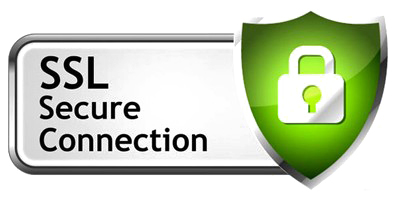
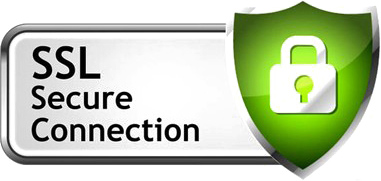
Building pages responsiveness / compressing images

diff --git a/bmt-homepage-react/src/Components/PrivacyPolicy.js b/bmt-homepage-react/src/Components/PrivacyPolicy.js
@@ -46,7 +46,7 @@ function Privacy() {
 							<strong>Firewall</strong>
 						</p>
 						<Image
-							src="../images/firewall.jpg"
+							src="../images/firewall-min.jpg"
 							alt="Firewall image"
 							style={{ marginBottom: '1rem', width: '200px' }}
 						/>
@@ -57,7 +57,7 @@ function Privacy() {
 							<strong>SSL (Secure Socket Layers)</strong>
 						</p>
 						<Image
-							src="../images/ssl-security-plan.jpg"
+							src="../images/ssl-security-plan-min.jpg"
 							alt="SSL Security image"
 							style={{ marginBottom: '1rem', width: '200px' }}
 						/>
@@ -68,7 +68,7 @@ function Privacy() {
 							<strong>Security Metrics</strong>
 						</p>
 						<Image
-							src="../images/security-metrics-logo.jpg"
+							src="../images/security-metrics-logo-min.jpg"
 							alt="Security Metrics logo"
 							style={{ marginBottom: '1rem', width: '200px' }}
 						/>

diff --git a/bmt-homepage-react/src/Components/Contact.js b/bmt-homepage-react/src/Components/Contact.js
@@ -29,7 +29,7 @@ function Contact() {
 						<p>Address to PO Box:</p>
 						<p style={{ color: '#efa900' }}>BMT Micro P.O. Box 15016<br/>Wilmington, NC 28408 USA</p>
 					</Col>
-					<Col xl={{ span: 4, offset: 1 }} lg={6} md={12} sm={12} className="media-contact" style={{ borderLeft: '5px solid black'}}>
+					<Col xl={{ span: 4, offset: 1 }} lg={6} md={12} sm={12} className="media-contact">
 						<h5>Connect through social media</h5>
 						<ul>
 							<li><a href="https://www.facebook.com/bmt.micro" target="_blank" rel="noreferrer"><i className="fab fa-facebook-square facebook"></i></a></li>

diff --git a/bmt-homepage-react/src/css/App.css b/bmt-homepage-react/src/css/App.css
@@ -85,6 +85,19 @@ p, ul, nav {
     font-size: 1.4rem;
   }
 }
+@media (max-width: 575px) {
+  .news-title {
+    padding-left: 15px;
+  }
+  .media-contact {
+    margin-left: 10px;
+  }
+}
+@media (min-width: 576px) {
+  .news-title {
+    padding-left: 0px !important;
+  }
+}
 @media (max-width: 552px) {
   .header-section h1 {
     font-size: 2.5rem;

diff --git a/bmt-homepage-react/src/Components/NewsPages/News.js b/bmt-homepage-react/src/Components/NewsPages/News.js
@@ -8,7 +8,7 @@ function News() {
 		<div className="body-content">
       <Container className="news">
 				<Row>
-					<Col xl={12} lg={12} md={12} sm={12} style={{ paddingLeft: 0 }}>
+					<Col xl={12} lg={12} md={12} sm={12} className="news-title">
 		      	<h4 style={{ marginBottom: '1.5rem' }}>BMT Micro News</h4>
 					</Col>
 				</Row>
